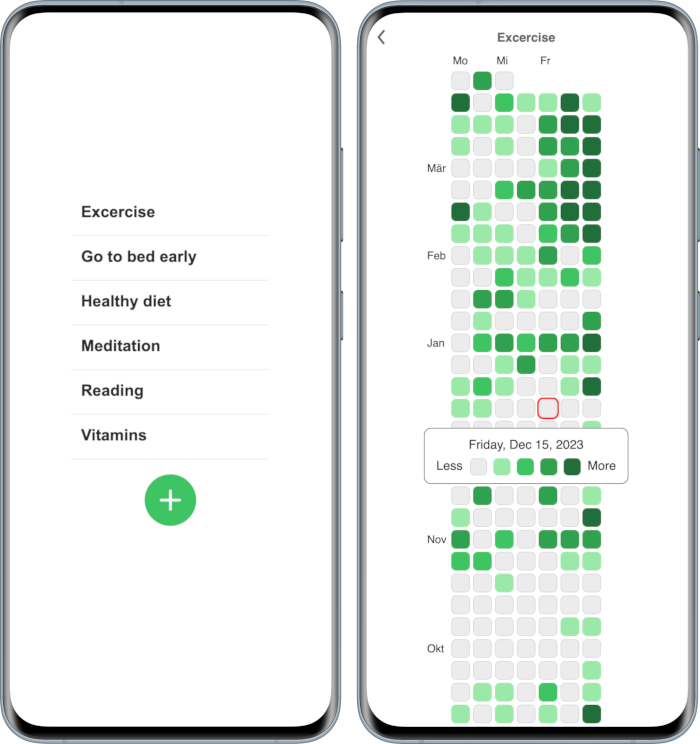
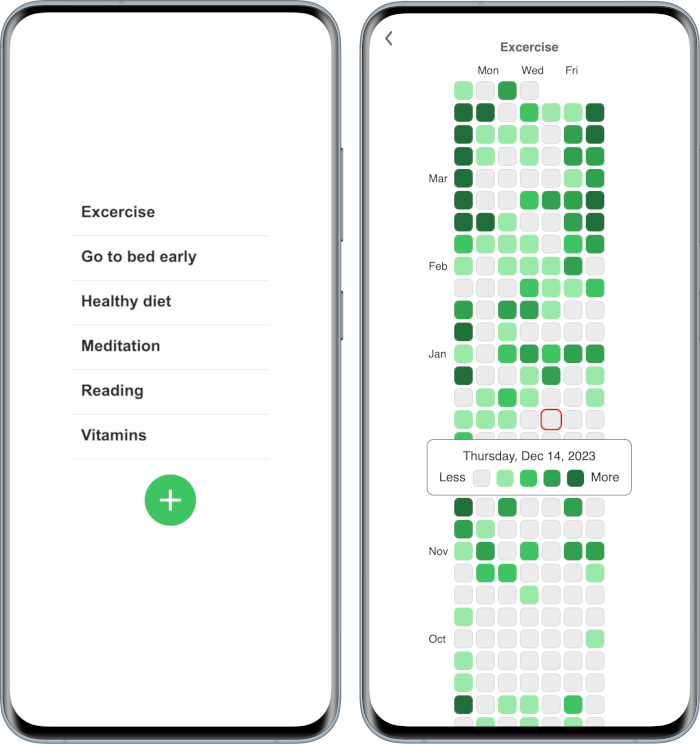
Google Play Store release

Changed region(s): [[0.51, 0.0, 1.0, 1.0]]

diff --git a/www/app/states/tracker/tracker.js b/www/app/states/tracker/tracker.js
@@ -147,7 +147,7 @@ const addMonthLabel = (week, day) => {
     let month = '';
     week.forEach((day) => {
         if (day.getDate() === 1) {
-            month = day.toLocaleString('default', {month: 'short'});
+            month = day.toLocaleString(window.navigator.language, {month: 'short'});
         }
     });
     return month;

diff --git a/www/api/date.js b/www/api/date.js
@@ -39,7 +39,7 @@ export const dateUtils = {
      * @returns {string}
      */
     localizedWeekday: (date) => {
-        return new Date(date).toLocaleString('default', {weekday: 'short'});
+        return new Date(date).toLocaleString(window.navigator.language, {weekday: 'short'});
     },
 
     /**
